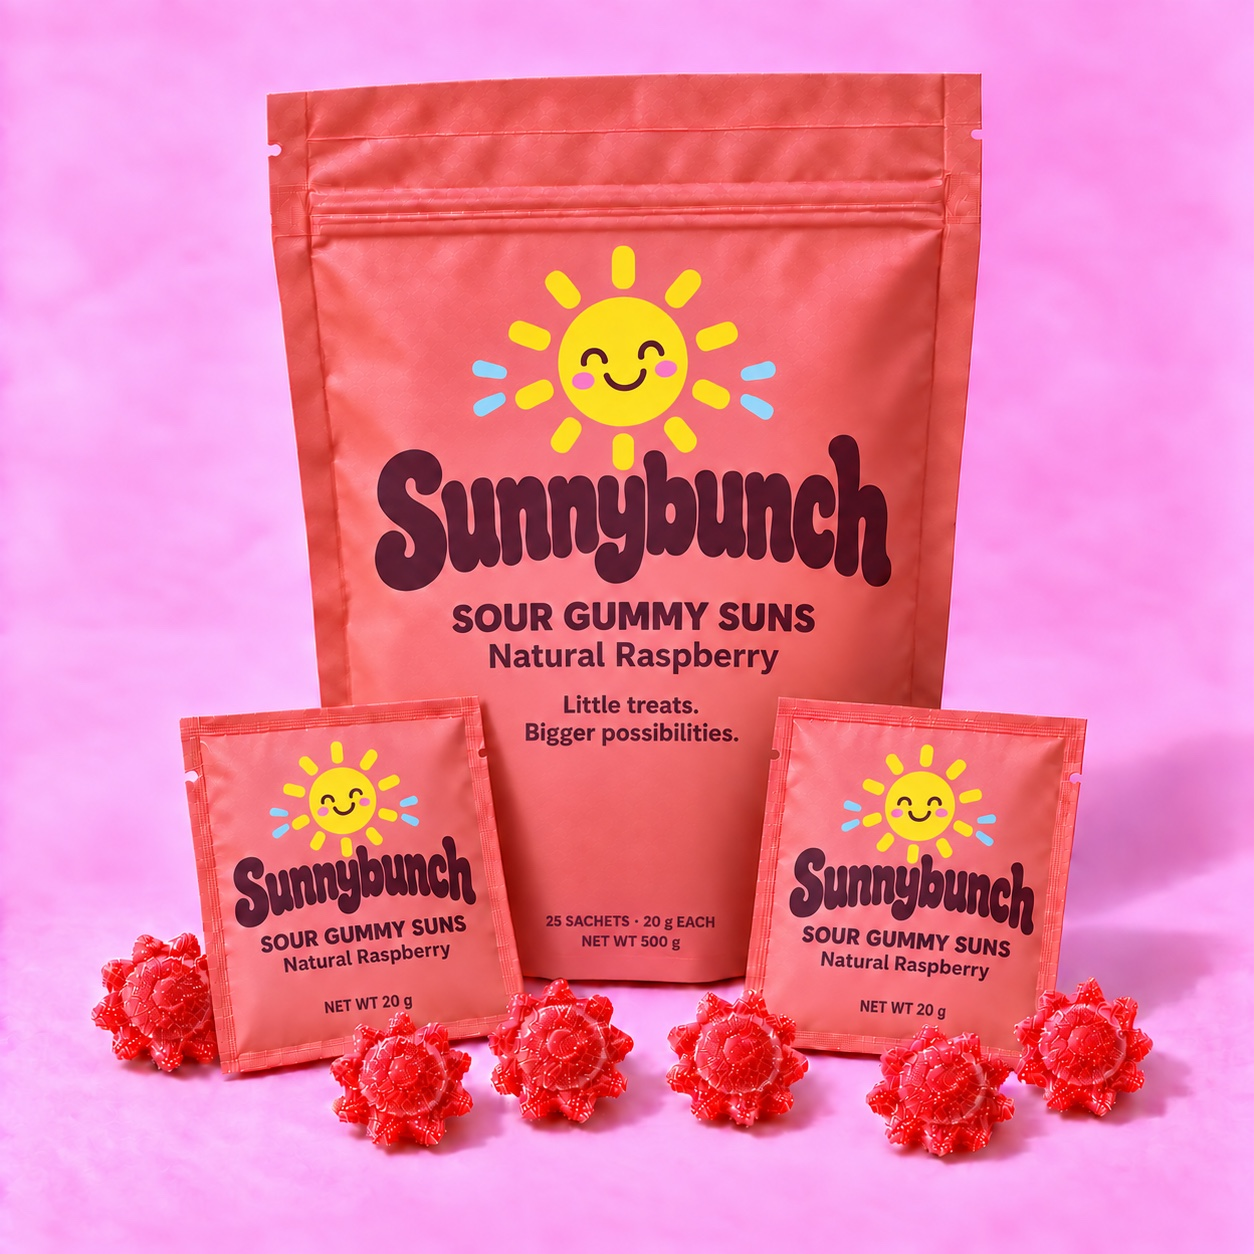
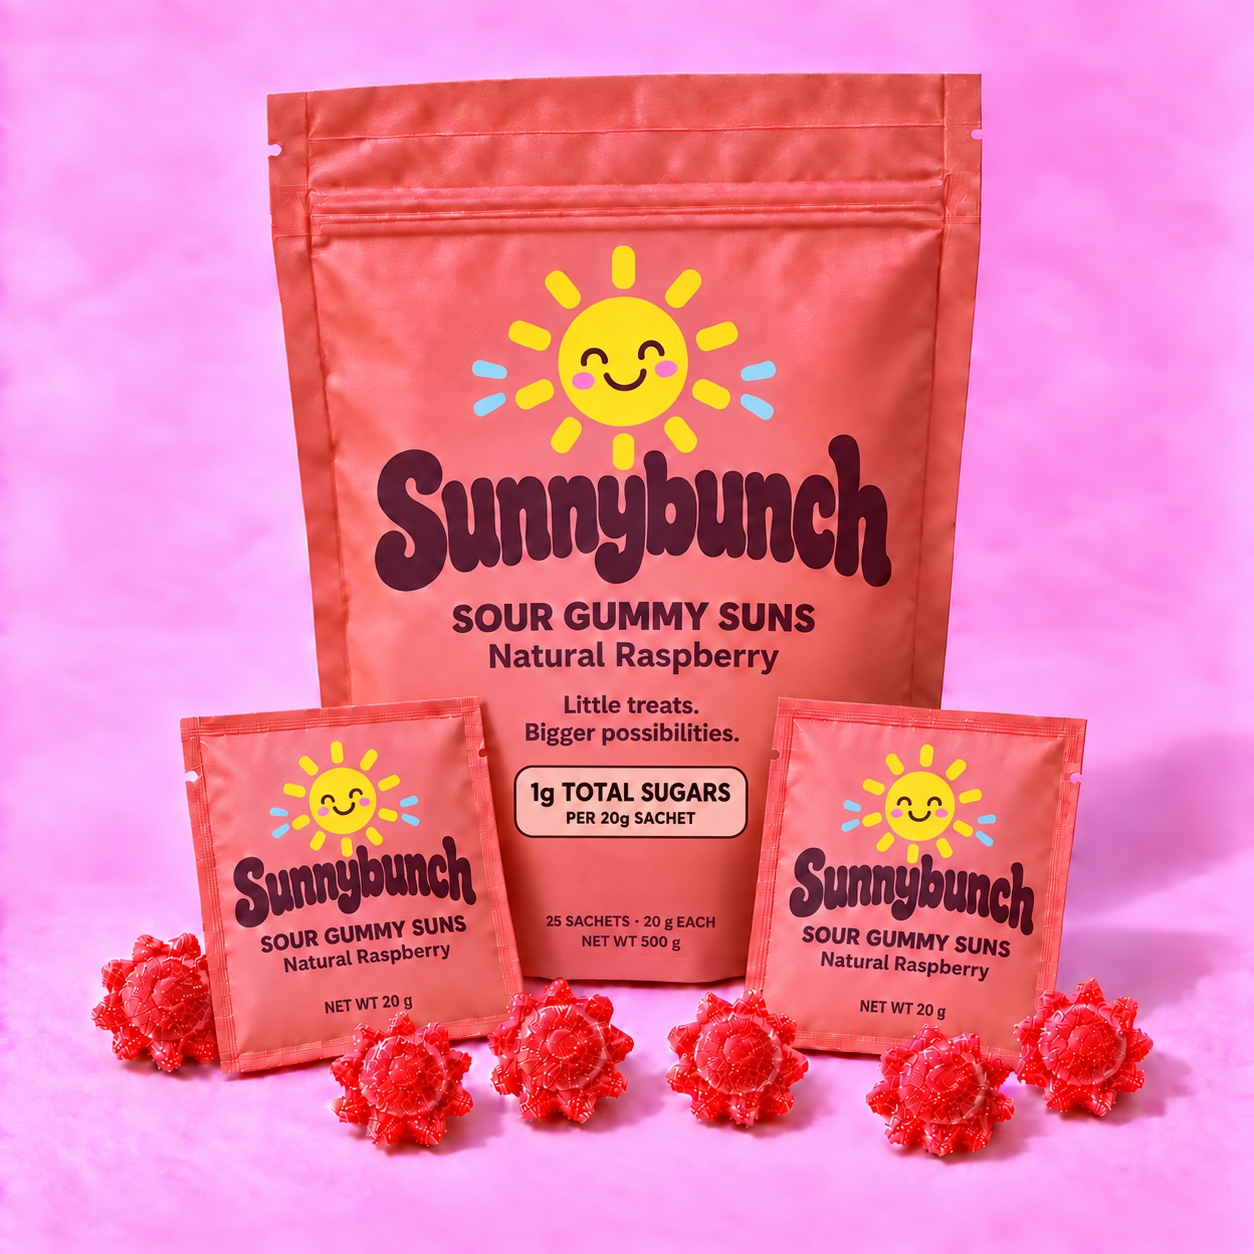
Emphasize confirmed total sugars per sachet

diff --git a/content/storefront.html b/content/storefront.html
@@ -4,7 +4,7 @@
   <meta charset="utf-8">
   <meta name="viewport" content="width=device-width,initial-scale=1">
   <meta name="theme-color" content="#ffe4a0">
-  <meta name="description" content="Shop Sunnybunch sour gummy suns in Natural Raspberry and Pineapple Orange Guava. 25 easy-to-pack 20 g sachets per pouch. Little treats. Bigger possibilities.">
+  <meta name="description" content="Sunnybunch sour gummy suns: 1 g total sugars per 20 g sachet of 8 gummies. Shop Natural Raspberry or Pineapple Orange Guava, with 25 sachets per pouch.">
   <meta name="robots" content="noindex,nofollow">
   <title>Shop Sunnybunch — Sour Gummy Suns</title>
   <link rel="icon" type="image/svg+xml" href="/assets/favicon.svg">
@@ -34,6 +34,7 @@
       <div class="hero-lead">
         <p class="eyebrow"><span class="asterisk" aria-hidden="true">☀</span> SOUR GUMMY SUNS</p>
         <h1 id="hero-title">A little pack<br><span>of sunshine.</span></h1>
+        <div class="sugar-highlight"><strong>1 g</strong><span>total sugars<small>per 20 g sachet · 8 gummies</small></span></div>
       </div>
       <div class="hero-visual" data-flavor="raspberry">
         <img id="hero-product" class="hero-product" src="/assets/sunnybunch-raspberry-brand-first.jpg" width="1254" height="1254" alt="Sunnybunch Natural Raspberry in matte pink packaging, with red sugar-coated sun gummies" fetchpriority="high">
@@ -49,12 +50,11 @@
         <p class="hero-description" data-content="heroDescription">Big fruit flavor. A little sour pucker. Sugar-coated gummy suns in perfectly portable packs, ready to brighten your day.</p>
         <div class="hero-pack-facts"><span><strong>25</strong> sachets per pouch</span><span><strong>20 g</strong> in every sachet</span></div>
         <div class="hero-actions"><a class="button button-dark" href="#treats">Shop the gummies <span aria-hidden="true">↗</span></a><a class="text-link" href="#purpose">Meet our mission</a></div>
-        <p class="hero-footnote">Less sugar is our goal. Great taste comes first.</p>
         <p class="hero-mission" data-content="missionStatement">Our commitment: donate 100% of Sunnybunch profits to Mia’s Place, our planned nonprofit helping communities support people with special needs through schools, treatment research and meaningful employment.</p>
       </div>
     </section>
-    <div class="ribbon" aria-label="Two sour flavors, 25 sachets per pouch, 20 grams per sachet">
-      <span>TWO SOUR FLAVORS</span><span aria-hidden="true">☀</span><span>25 SACHETS PER POUCH</span><span aria-hidden="true">☀</span><span>20 g PER SACHET</span>
+    <div class="ribbon" aria-label="Two sour flavors, 25 sachets per pouch, 1 gram total sugars per 20 gram sachet">
+      <span>TWO SOUR FLAVORS</span><span aria-hidden="true">☀</span><span>25 SACHETS PER POUCH</span><span aria-hidden="true">☀</span><span>1 g TOTAL SUGARS<br>PER 20 g SACHET</span>
     </div>
     <section class="treats section" id="treats" aria-labelledby="treats-title">
       <div class="section-heading">
@@ -71,6 +71,7 @@
             <p class="product-size">25 × 20 g SACHETS · 500 g TOTAL</p>
             <h3>Natural Raspberry</h3>
             <p data-product-description>Bright raspberry flavor, a tangy bite, and a satisfying chew.</p>
+            <div class="product-sugar-fact"><strong>1 g</strong><span>total sugars<small>per 20 g sachet · 8 gummies</small></span></div>
             <div class="product-price"><strong data-price="raspberry">$30.00</strong><span data-per-serving="raspberry">$1.20 per sachet</span></div>
             <dl class="product-facts"><div><dt>In each pouch</dt><dd>25 × 20 g sachets</dd></div><div><dt>In each sachet</dt><dd>8 sugar-coated suns</dd></div><div><dt>Total candy weight</dt><dd>500 g</dd></div></dl>
             <form class="purchase-form" data-product="raspberry">
@@ -106,6 +107,7 @@
             <p class="product-size">25 × 20 g SACHETS · 500 g TOTAL</p>
             <h3>Pineapple Orange Guava</h3>
             <p data-product-description>A tropical trio of fruit flavors with a playful sour finish.</p>
+            <div class="product-sugar-fact"><strong>1 g</strong><span>total sugars<small>per 20 g sachet · 8 gummies</small></span></div>
             <div class="product-price"><strong data-price="tropical">$30.00</strong><span data-per-serving="tropical">$1.20 per sachet</span></div>
             <dl class="product-facts"><div><dt>In each pouch</dt><dd>25 × 20 g sachets</dd></div><div><dt>In each sachet</dt><dd>8 sugar-coated suns</dd></div><div><dt>Total candy weight</dt><dd>500 g</dd></div></dl>
             <form class="purchase-form" data-product="tropical">
@@ -133,11 +135,11 @@
           </div>
         </article>
       </div>
-      <p class="product-image-note">Packaging illustrations shown. Final ingredients, allergens and nutrition information are pending.</p>
+      <p class="product-image-note">Packaging illustrations shown. Full ingredients, allergen information and the complete Nutrition Facts panel are coming soon.</p>
       <noscript><p class="store-note">Enable JavaScript to select quantities and use your shopping bag.</p></noscript>
       <div class="pack-explainer">
         <div><span class="asterisk" aria-hidden="true">☀</span><h3>Sunshine,<br>by the sachet.</h3></div>
-        <p>One pouch. 25 little moments of happy. Each 20 g sachet holds 8 gummy suns—easy to tuck into a bag, share with a friend, or keep for a little afternoon treat.</p>
+        <p>One pouch. 25 little moments of happy. Each 20 g sachet holds 8 gummy suns and 1 g total sugars—easy to tuck into a bag, share with a friend, or keep for a little afternoon treat.</p>
       </div>
     </section>
     <section class="purpose section" id="purpose" aria-labelledby="purpose-title">
@@ -196,7 +198,8 @@
         <details><summary>How does Subscribe &amp; Save work?</summary><p>Choose either flavor and save with recurring deliveries. Each flavor’s one-time price, subscription price and savings are shown with the product. The subscription repeats every 30 days, with shipping and applicable tax extra on each delivery. One-time purchases remain available. Subscription checkout is not available yet, so adding a subscription to your bag does not start recurring charges. Renewal and cancellation details will be available before checkout opens.</p></details>
         <details><summary>When will my order ship?</summary><p>Orders ship the next day from Spanish Fork, Utah. This is our dispatch schedule; delivery time depends on the shipping service and destination.</p></details>
         <details><summary>How much is shipping?</summary><p id="shipping-faq">Shipping rates and available destinations are being finalized. Shipping and any applicable tax must be shown before you place an order.</p></details>
-        <details><summary>Where can I find ingredients and nutrition?</summary><p>The final ingredient list, allergen information and nutrition panel are pending. Lower sugar is our formulation goal, with taste as the priority; we’re not making a verified reduced-sugar claim yet.</p></details>
+        <details><summary>How much sugar is in a sachet?</summary><p>Both Natural Raspberry and Pineapple Orange Guava contain 1 g total sugars per 20 g sachet of 8 gummies. Each pouch contains 25 sachets.</p></details>
+        <details><summary>Where can I find ingredients and nutrition?</summary><p>Both flavors have 1 g total sugars per 20 g sachet. The full ingredient list, allergen information and complete Nutrition Facts panel are coming soon.</p></details>
         <details><summary>How are Sunnybunch and Mia’s Place connected?</summary><p>Sunnybunch is our candy brand, and our commitment is to donate 100% of its profits to Mia’s Place. Profits are the money remaining after Sunnybunch’s business costs. Mia’s Place is the nonprofit we plan to establish to help communities support people with special needs and their families through school support, responsible treatment research and meaningful employment. Its initiatives are in development.</p></details>
         <details><summary>Who is Mia’s Place for?</summary><p>Mia inspires the mission, and the vision reaches beyond one diagnosis. We want to support people with a range of special needs, their families, and the schools and communities around them—from childhood into adult life. The scope and eligibility of individual initiatives will be defined as they are developed.</p></details>
         <details><summary>What kind of research would Mia’s Place support?</summary><p>Our aim is to support ethically conducted research into treatments and supports that could improve health, wellbeing and daily life. Evidence, qualified research partners, and the priorities of people with special needs and their families will guide future decisions. Research partners and funding criteria have not yet been selected.</p></details>

diff --git a/app/admin/studio.tsx b/app/admin/studio.tsx
@@ -7,7 +7,7 @@ import { Textarea } from '@/components/ui/textarea';
 import { Checkbox } from '@/components/ui/checkbox';
 import { Table, TableHeader, TableBody, TableRow, TableHead, TableCell } from '@/components/ui/table';
 import { Dialog, DialogContent, DialogHeader, DialogTitle, DialogDescription } from '@/components/ui/dialog';
-import { applyChanges } from '@/lib/commerce.mjs';
+import { applyChanges, CONFIRMED_NUTRITION } from '@/lib/commerce.mjs';
 import { MISSION_STATEMENT } from '@/lib/mission-copy.mjs';
 import './studio.css';
 import SchoolPartners from './schools';
@@ -38,13 +38,13 @@ export default function Studio({email}:{email:string}){
     const definitions=[
       {name:'read_influencer_impact',title:'Read Sunnybunch influencer report',description:'Read owner-only influencer referral metrics and recorded completed donation allocations. No payments, messages, profile changes or donation records are created.',inputSchema:{type:'object',properties:{},additionalProperties:false},annotations:{readOnlyHint:true,untrustedContentHint:true},execute:async(input:any)=>{if(!input||typeof input!=='object'||Array.isArray(input)||Object.keys(input).length)throw new Error('No input fields accepted.');return api('influencers');}},
       {name:'read_school_partners',title:'Read Sunnybunch School Partner report',description:'Read district referral visits, recorded sales and subscriptions, plus pending accounting status. Requires the signed-in owner. Does not send messages or change districts.',inputSchema:{type:'object',properties:{},additionalProperties:false},annotations:{readOnlyHint:true,untrustedContentHint:true},execute:async(input:any)=>{if(!input||typeof input!=='object'||Array.isArray(input)||Object.keys(input).length)throw new Error('No input fields accepted.');return api('schools');}},
-      {name:'read_sunnybunch_store',title:'Read Sunnybunch management brief',description:'Read the signed-in owner’s catalog, prices, inventory, site content, revision, and pending proposals. Does not change the store or expose payment credentials.',inputSchema:{type:'object',properties:{},additionalProperties:false},annotations:{readOnlyHint:true,untrustedContentHint:true},execute:async(input:any)=>{if(!input||typeof input!=='object'||Array.isArray(input)||Object.keys(input).length)throw new Error('No input fields accepted.');const s=await refresh();return {revision:s.revision,initialized:s.initialized,products:s.products,content:s.content,pendingProposals:s.proposals.filter(p=>p.status==='pending'),ordersCount:s.orders.length,subscriptionCount:s.subscriptions.length,checkoutAvailable:false};}},
+      {name:'read_sunnybunch_store',title:'Read Sunnybunch management brief',description:'Read the signed-in owner’s catalog, prices, inventory, site content, revision, and pending proposals. Does not change the store or expose payment credentials.',inputSchema:{type:'object',properties:{},additionalProperties:false},annotations:{readOnlyHint:true,untrustedContentHint:true},execute:async(input:any)=>{if(!input||typeof input!=='object'||Array.isArray(input)||Object.keys(input).length)throw new Error('No input fields accepted.');const s=await refresh();return {revision:s.revision,initialized:s.initialized,products:s.products,content:s.content,confirmedNutrition:CONFIRMED_NUTRITION,pendingProposals:s.proposals.filter(p=>p.status==='pending'),ordersCount:s.orders.length,subscriptionCount:s.subscriptions.length,checkoutAvailable:false};}},
       {name:'propose_sunnybunch_changes',title:'Propose Sunnybunch changes for owner review',description:'Stage product, stock or text changes for owner review. Does not apply changes, change billing, send messages, create orders or donate money. Get the current revision first. Inventory is measured in outer pouches. Owner must review and apply in the admin page.',inputSchema:{type:'object',properties:{id:{type:'string',description:'New UUID for this proposal; reuse on retry.'},baseRevision:{type:'integer',minimum:1},summary:{type:'string',maxLength:180},changes:{type:'array',minItems:1,maxItems:10,items:{oneOf:[{type:'object',properties:{type:{const:'update_product'},id:{enum:['raspberry','tropical']},patch:{type:'object',properties:{name:{type:'string'},description:{type:'string'},priceCents:{type:'integer',minimum:1,maximum:100000},subscriptionPriceCents:{type:'integer',minimum:1,maximum:100000},published:{type:'boolean'}},minProperties:1,additionalProperties:false}},required:['type','id','patch'],additionalProperties:false},{type:'object',properties:{type:{const:'set_inventory'},id:{enum:['raspberry','tropical']},quantity:{type:'integer',minimum:0,maximum:1000000},reason:{type:'string'}},required:['type','id','quantity','reason'],additionalProperties:false},{type:'object',properties:{type:{const:'adjust_inventory'},id:{enum:['raspberry','tropical']},delta:{type:'integer',minimum:-1000000,maximum:1000000},reason:{type:'string'}},required:['type','id','delta','reason'],additionalProperties:false},{type:'object',properties:{type:{const:'update_content'},patch:{type:'object',properties:{announcement:{type:'string'},heroDescription:{type:'string'},missionLead:{type:'string'},missionStatement:{type:'string'}},minProperties:1,additionalProperties:false}},required:['type','patch'],additionalProperties:false}]}}},required:['id','baseRevision','summary','changes'],additionalProperties:false},annotations:{readOnlyHint:false,untrustedContentHint:true},execute:async(input:any)=>{const result=await api('proposals',{...input,source:'ai'});await refresh();setTab('review');setNotice('AI proposal ready for your review. No live changes made.');return {id:result.id,status:result.status,requiresOwnerReview:true};}}
     ];
     for(const definition of definitions){try{Promise.resolve(context.registerTool(definition,{signal:lifecycle.signal})).catch(()=>lifecycle.abort());}catch{lifecycle.abort();}}
     return()=>lifecycle.abort();
   },[refresh]);
-  const brief=store?JSON.stringify({brand:'Sunnybunch',mission:MISSION_STATEMENT,ownerInstructions:'Propose changes only. All profits are committed to Mia’s Place. Do not invent nutrition claims, inventory, sales or donations.',revision:store.revision,products:store.products,content:store.content,influencerPartners:'No commission. Public community totals count completed donations recorded by the owner, not sales or estimated profit. One referral partner per purchase; school and influencer referrals share a 30-day last-link window. Existing subscriptions retain the original partner until cancellation.',schoolPartners:'Last active school or influencer link within 30 days. Subscriptions keep their original district until cancellation. All profits go to Mia’s Place, which grants each district-attributed share to its designated program. Paid sales and renewals await payment integration. Donation accounting is pending.',purchaseFormat:'25 × 20 g sachets per pouch; subscriptions every 30 days, shipping extra',allowedChanges:['update_product','set_inventory','adjust_inventory','update_content']},null,2):'';
+  const brief=store?JSON.stringify({brand:'Sunnybunch',mission:MISSION_STATEMENT,confirmedNutrition:CONFIRMED_NUTRITION,ownerInstructions:'Propose changes only. All profits are committed to Mia’s Place. Use the confirmed 1 g total sugars amount with its 20 g sachet basis for both flavors. Do not invent other nutrition claims, comparative sugar claims, inventory, sales or donations.',revision:store.revision,products:store.products,content:store.content,influencerPartners:'No commission. Public community totals count completed donations recorded by the owner, not sales or estimated profit. One referral partner per purchase; school and influencer referrals share a 30-day last-link window. Existing subscriptions retain the original partner until cancellation.',schoolPartners:'Last active school or influencer link within 30 days. Subscriptions keep their original district until cancellation. All profits go to Mia’s Place, which grants each district-attributed share to its designated program. Paid sales and renewals await payment integration. Donation accounting is pending.',purchaseFormat:'25 × 20 g sachets per pouch; subscriptions every 30 days, shipping extra',allowedChanges:['update_product','set_inventory','adjust_inventory','update_content']},null,2):'';
   const pending=store?.proposals.filter(p=>p.status==='pending')||[];
   return <main className="studio">
     <header className="studio-header"><div><a href="/" className="studio-logo">Sunnybunch <span aria-hidden="true">☀</span></a><span className="studio-label">STORE STUDIO</span></div><div className="header-actions"><a href="/" target="_blank" rel="noreferrer">View store ↗</a><span>{email}</span><a href="/signout-with-chatgpt?return_to=/" target="_top">Sign out</a></div></header>

diff --git a/public/styles.css b/public/styles.css
@@ -38,6 +38,14 @@ h1{font-size:clamp(3.5rem,6.5vw,6.4rem);letter-spacing:-.05em;line-height:1.01;m
 h1 span{color:#a83024}
 .hero-details{grid-column:1;grid-row:2;padding-bottom:28px}
 .hero-description{font-size:1.125rem;line-height:1.65;max-width:420px}
+.sugar-highlight,.product-sugar-fact{display:flex;align-items:center;gap:15px;width:fit-content;max-width:100%;color:var(--ink)}
+.sugar-highlight{margin:0 0 24px;padding:12px 20px 12px 16px;background:var(--light);border-radius:18px}
+.sugar-highlight>strong{font-family:var(--display);font-size:3.25rem;line-height:1.05;white-space:nowrap;font-weight:600}
+.sugar-highlight>span,.product-sugar-fact>span{font-weight:700;font-size:1rem;line-height:1.35}
+.sugar-highlight small,.product-sugar-fact small{display:block;margin-top:4px;font-size:.875rem;font-weight:500}
+.product-sugar-fact{margin:17px 0 2px;padding:12px 16px;background:#fffaf5bb;border-radius:14px}
+.product-sugar-fact>strong{font-family:var(--display);font-size:2.25rem;line-height:1.1;white-space:nowrap;font-weight:600}
+@media(max-width:370px){.sugar-highlight,.product-sugar-fact{padding:12px;gap:10px}.sugar-highlight>strong{font-size:2.75rem}}
 .hero-mission{font-size:.9375rem;max-width:390px;border-left:3px solid #a8302460;padding-left:15px;margin-top:20px}
 .hero-actions{display:flex;align-items:center;gap:20px;flex-wrap:wrap;margin-top:26px}
 .button{display:inline-flex;align-items:center;justify-content:space-between;gap:24px;font-weight:700;padding:15px 22px;border-radius:32px;min-height:54px;border:0;transition:transform .2s,background .2s;text-align:left}

diff --git a/public/script.js b/public/script.js
@@ -195,7 +195,7 @@ renderCart();
 // Optional browser-native agent interface. Cart edits never place an order.
 if (document.modelContext?.registerTool) {
   const lifecycle = new AbortController();
-  const readBag = () => ({ catalogAvailable, products: Object.values(PRODUCTS).filter(product=>product.published!==false).map(product => ({ id: product.id, name: product.name, priceCents: product.priceCents, subscriptionPriceCents: unitPrice(product, 'subscription'), sachetsPerPouch: 25, gummiesPerSachet: 8, gramsPerSachet: 20, gramsPerPouch: 500 })), subscription: SUBSCRIPTION, ...summarizeCart(cart) });
+  const readBag = () => ({ catalogAvailable, products: Object.values(PRODUCTS).filter(product=>product.published!==false).map(product => ({ id: product.id, name: product.name, priceCents: product.priceCents, subscriptionPriceCents: unitPrice(product, 'subscription'), sachetsPerPouch: 25, gummiesPerSachet: 8, gramsPerSachet: 20, totalSugarsGramsPerSachet: 1, gramsPerPouch: 500 })), subscription: SUBSCRIPTION, ...summarizeCart(cart) });
   const definitions = [
     {
       name: 'read_shopping_bag', title: 'Read Sunnybunch shopping bag',
